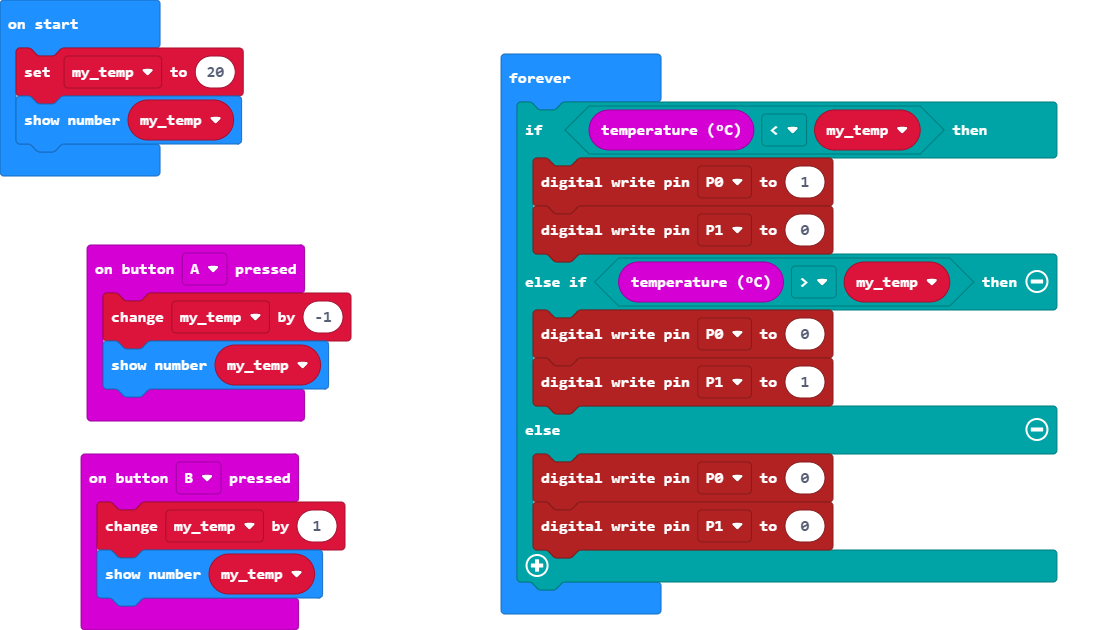
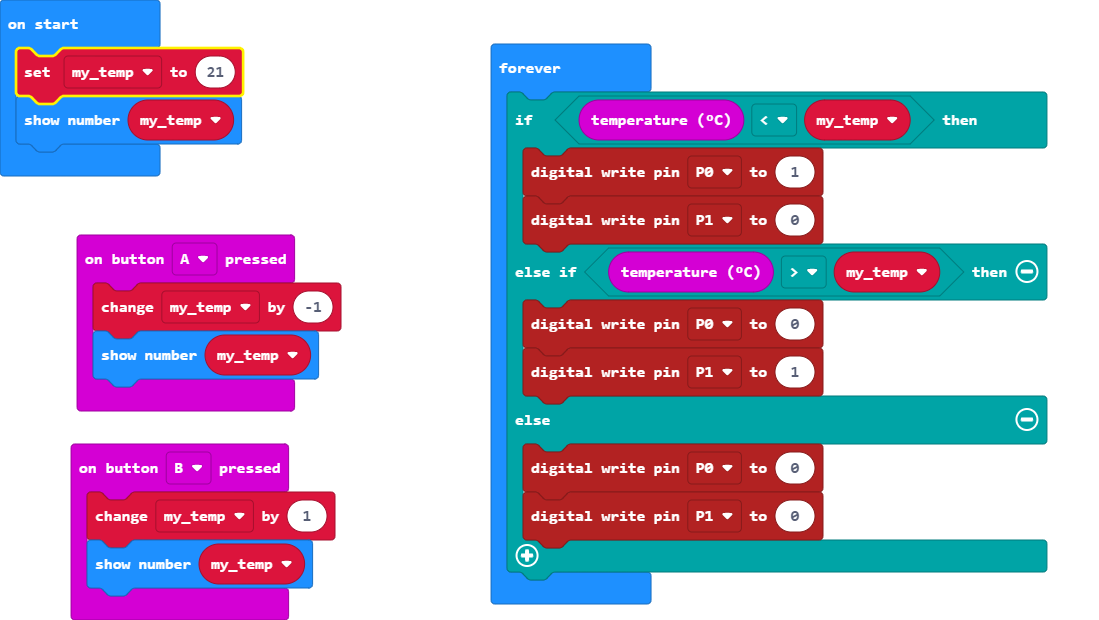
changes my_temp

diff --git a/main.ts b/main.ts
@@ -7,7 +7,7 @@ input.onButtonPressed(Button.B, function () {
     basic.showNumber(my_temp)
 })
 let my_temp = 0
-my_temp = 20
+my_temp = 21
 basic.showNumber(my_temp)
 basic.forever(function () {
     if (input.temperature() < my_temp) {

diff --git a/main.py b/main.py
@@ -1,0 +1,27 @@
+def on_button_pressed_a():
+    global my_temp
+    my_temp += -1
+    basic.show_number(my_temp)
+input.on_button_pressed(Button.A, on_button_pressed_a)
+
+def on_button_pressed_b():
+    global my_temp
+    my_temp += 1
+    basic.show_number(my_temp)
+input.on_button_pressed(Button.B, on_button_pressed_b)
+
+my_temp = 0
+my_temp = 20
+basic.show_number(my_temp)
+
+def on_forever():
+    if input.temperature() < my_temp:
+        pins.digital_write_pin(DigitalPin.P0, 1)
+        pins.digital_write_pin(DigitalPin.P1, 0)
+    elif input.temperature() > my_temp:
+        pins.digital_write_pin(DigitalPin.P0, 0)
+        pins.digital_write_pin(DigitalPin.P1, 1)
+    else:
+        pins.digital_write_pin(DigitalPin.P0, 0)
+        pins.digital_write_pin(DigitalPin.P1, 0)
+basic.forever(on_forever)
